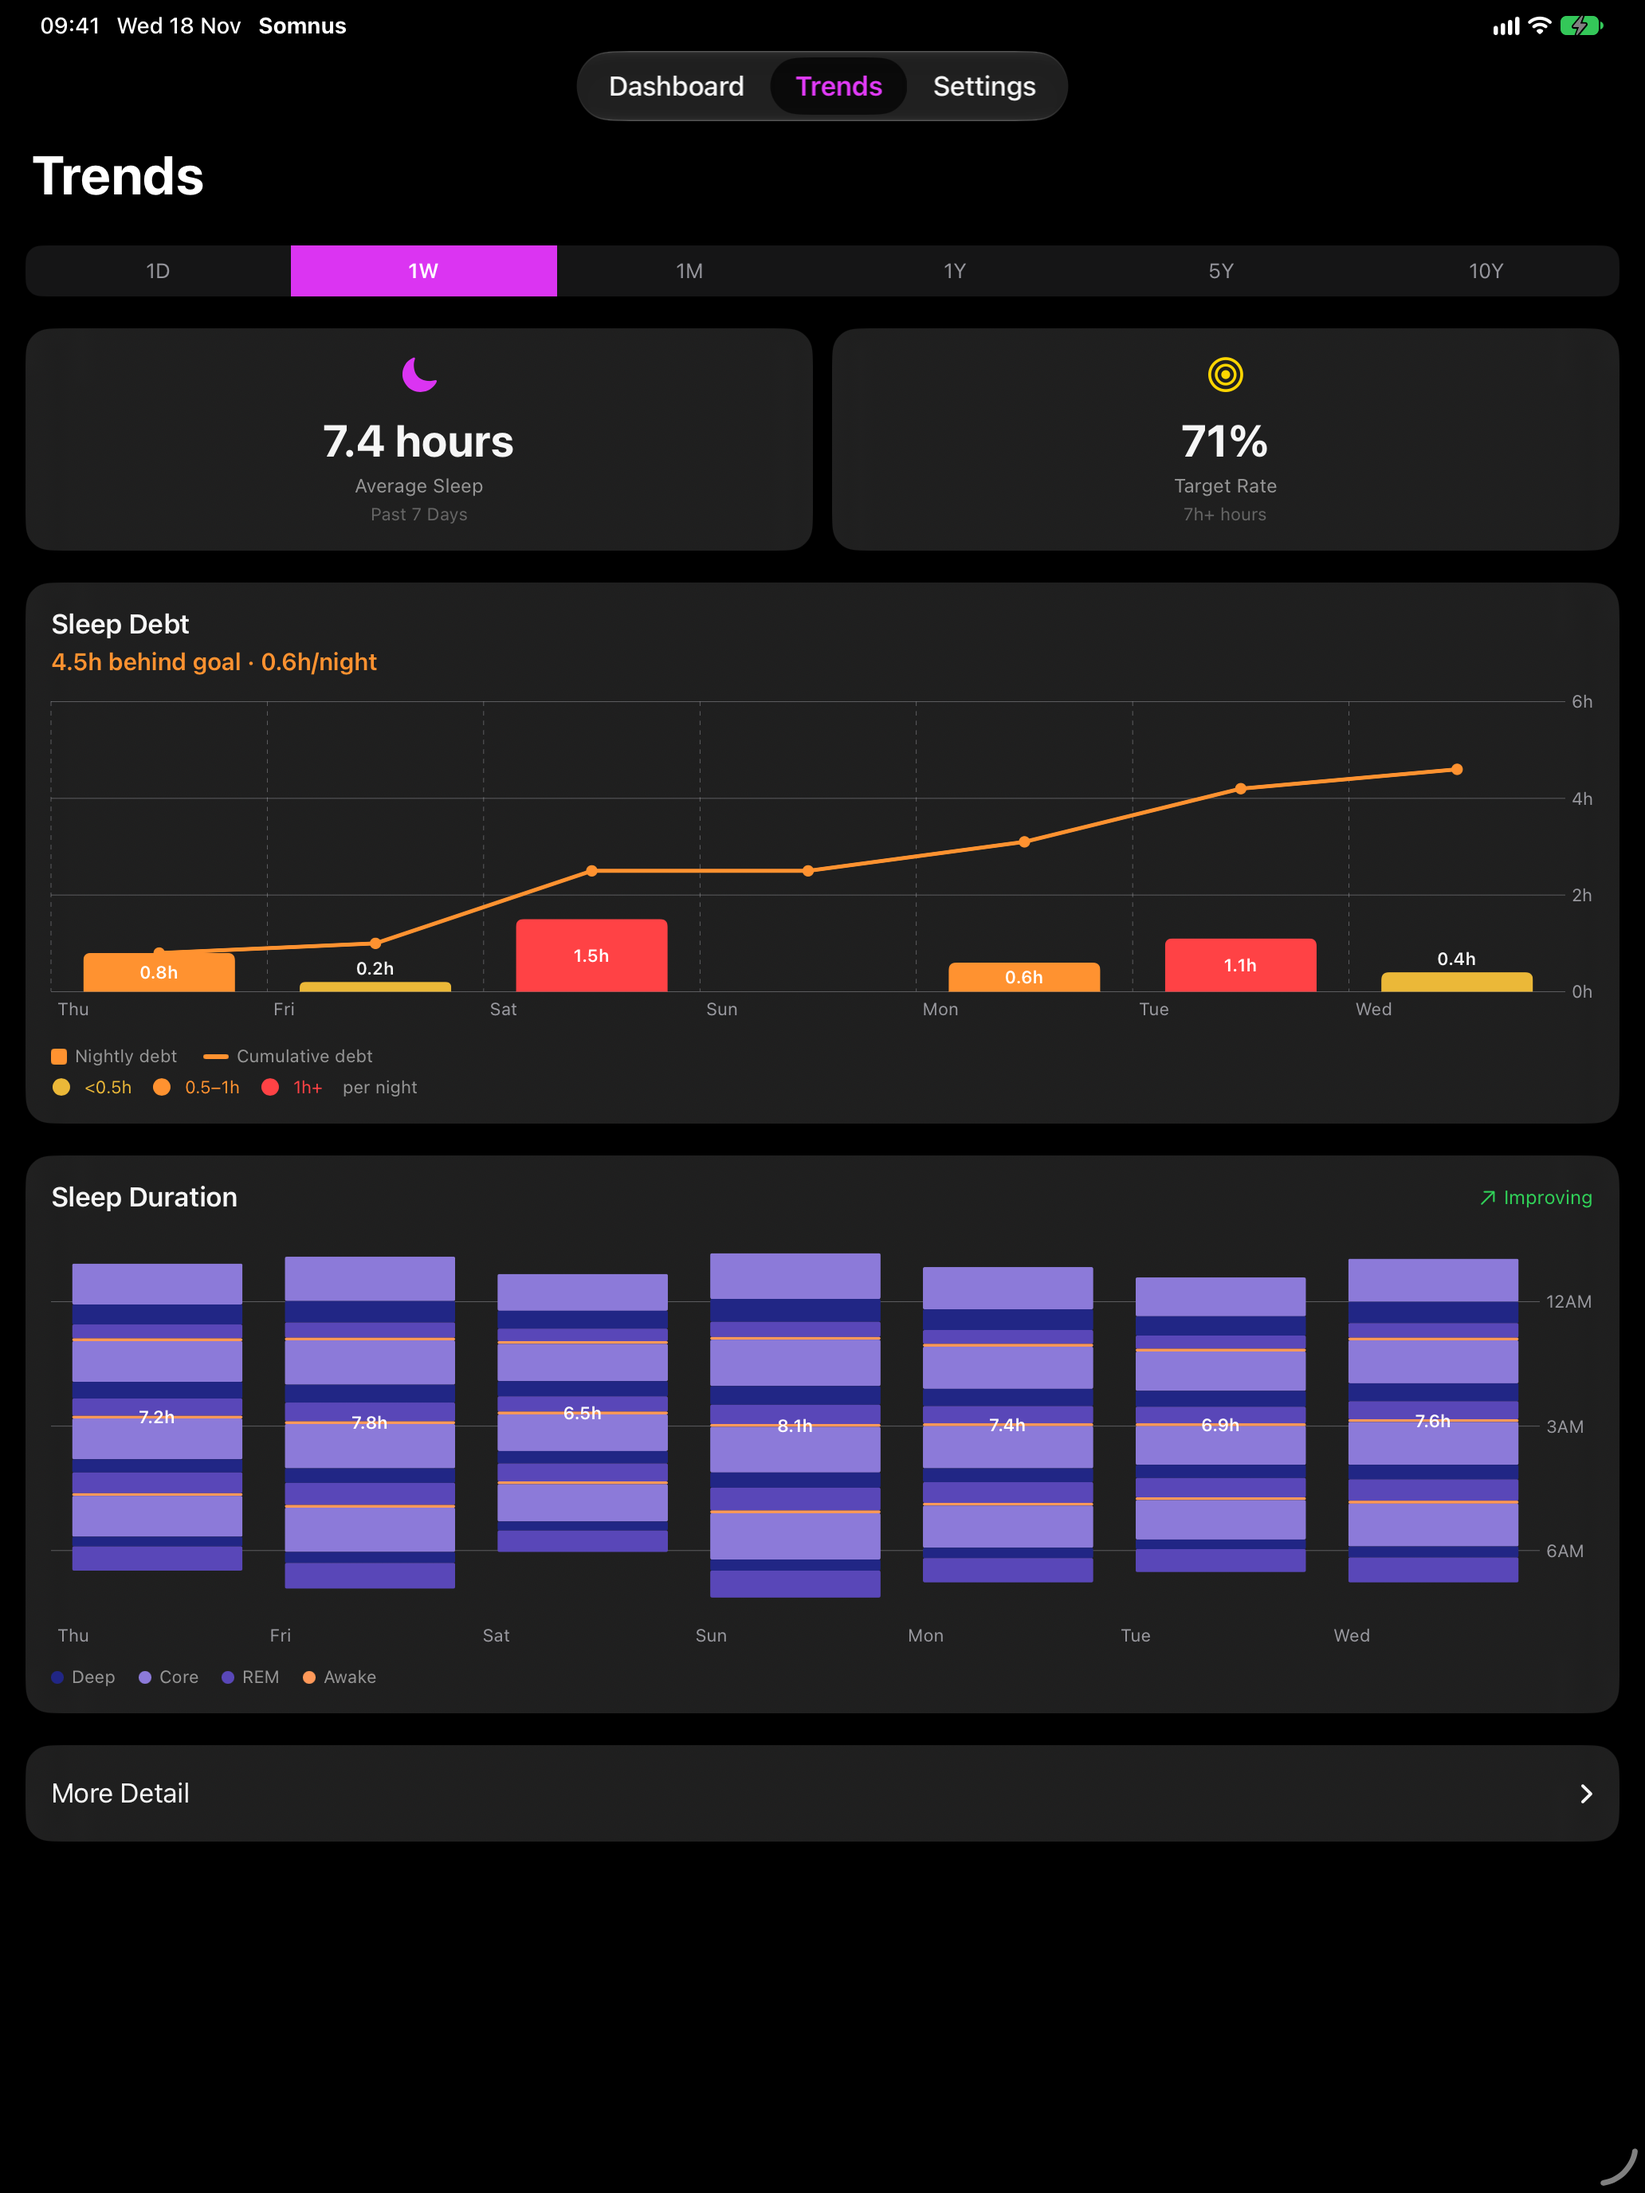
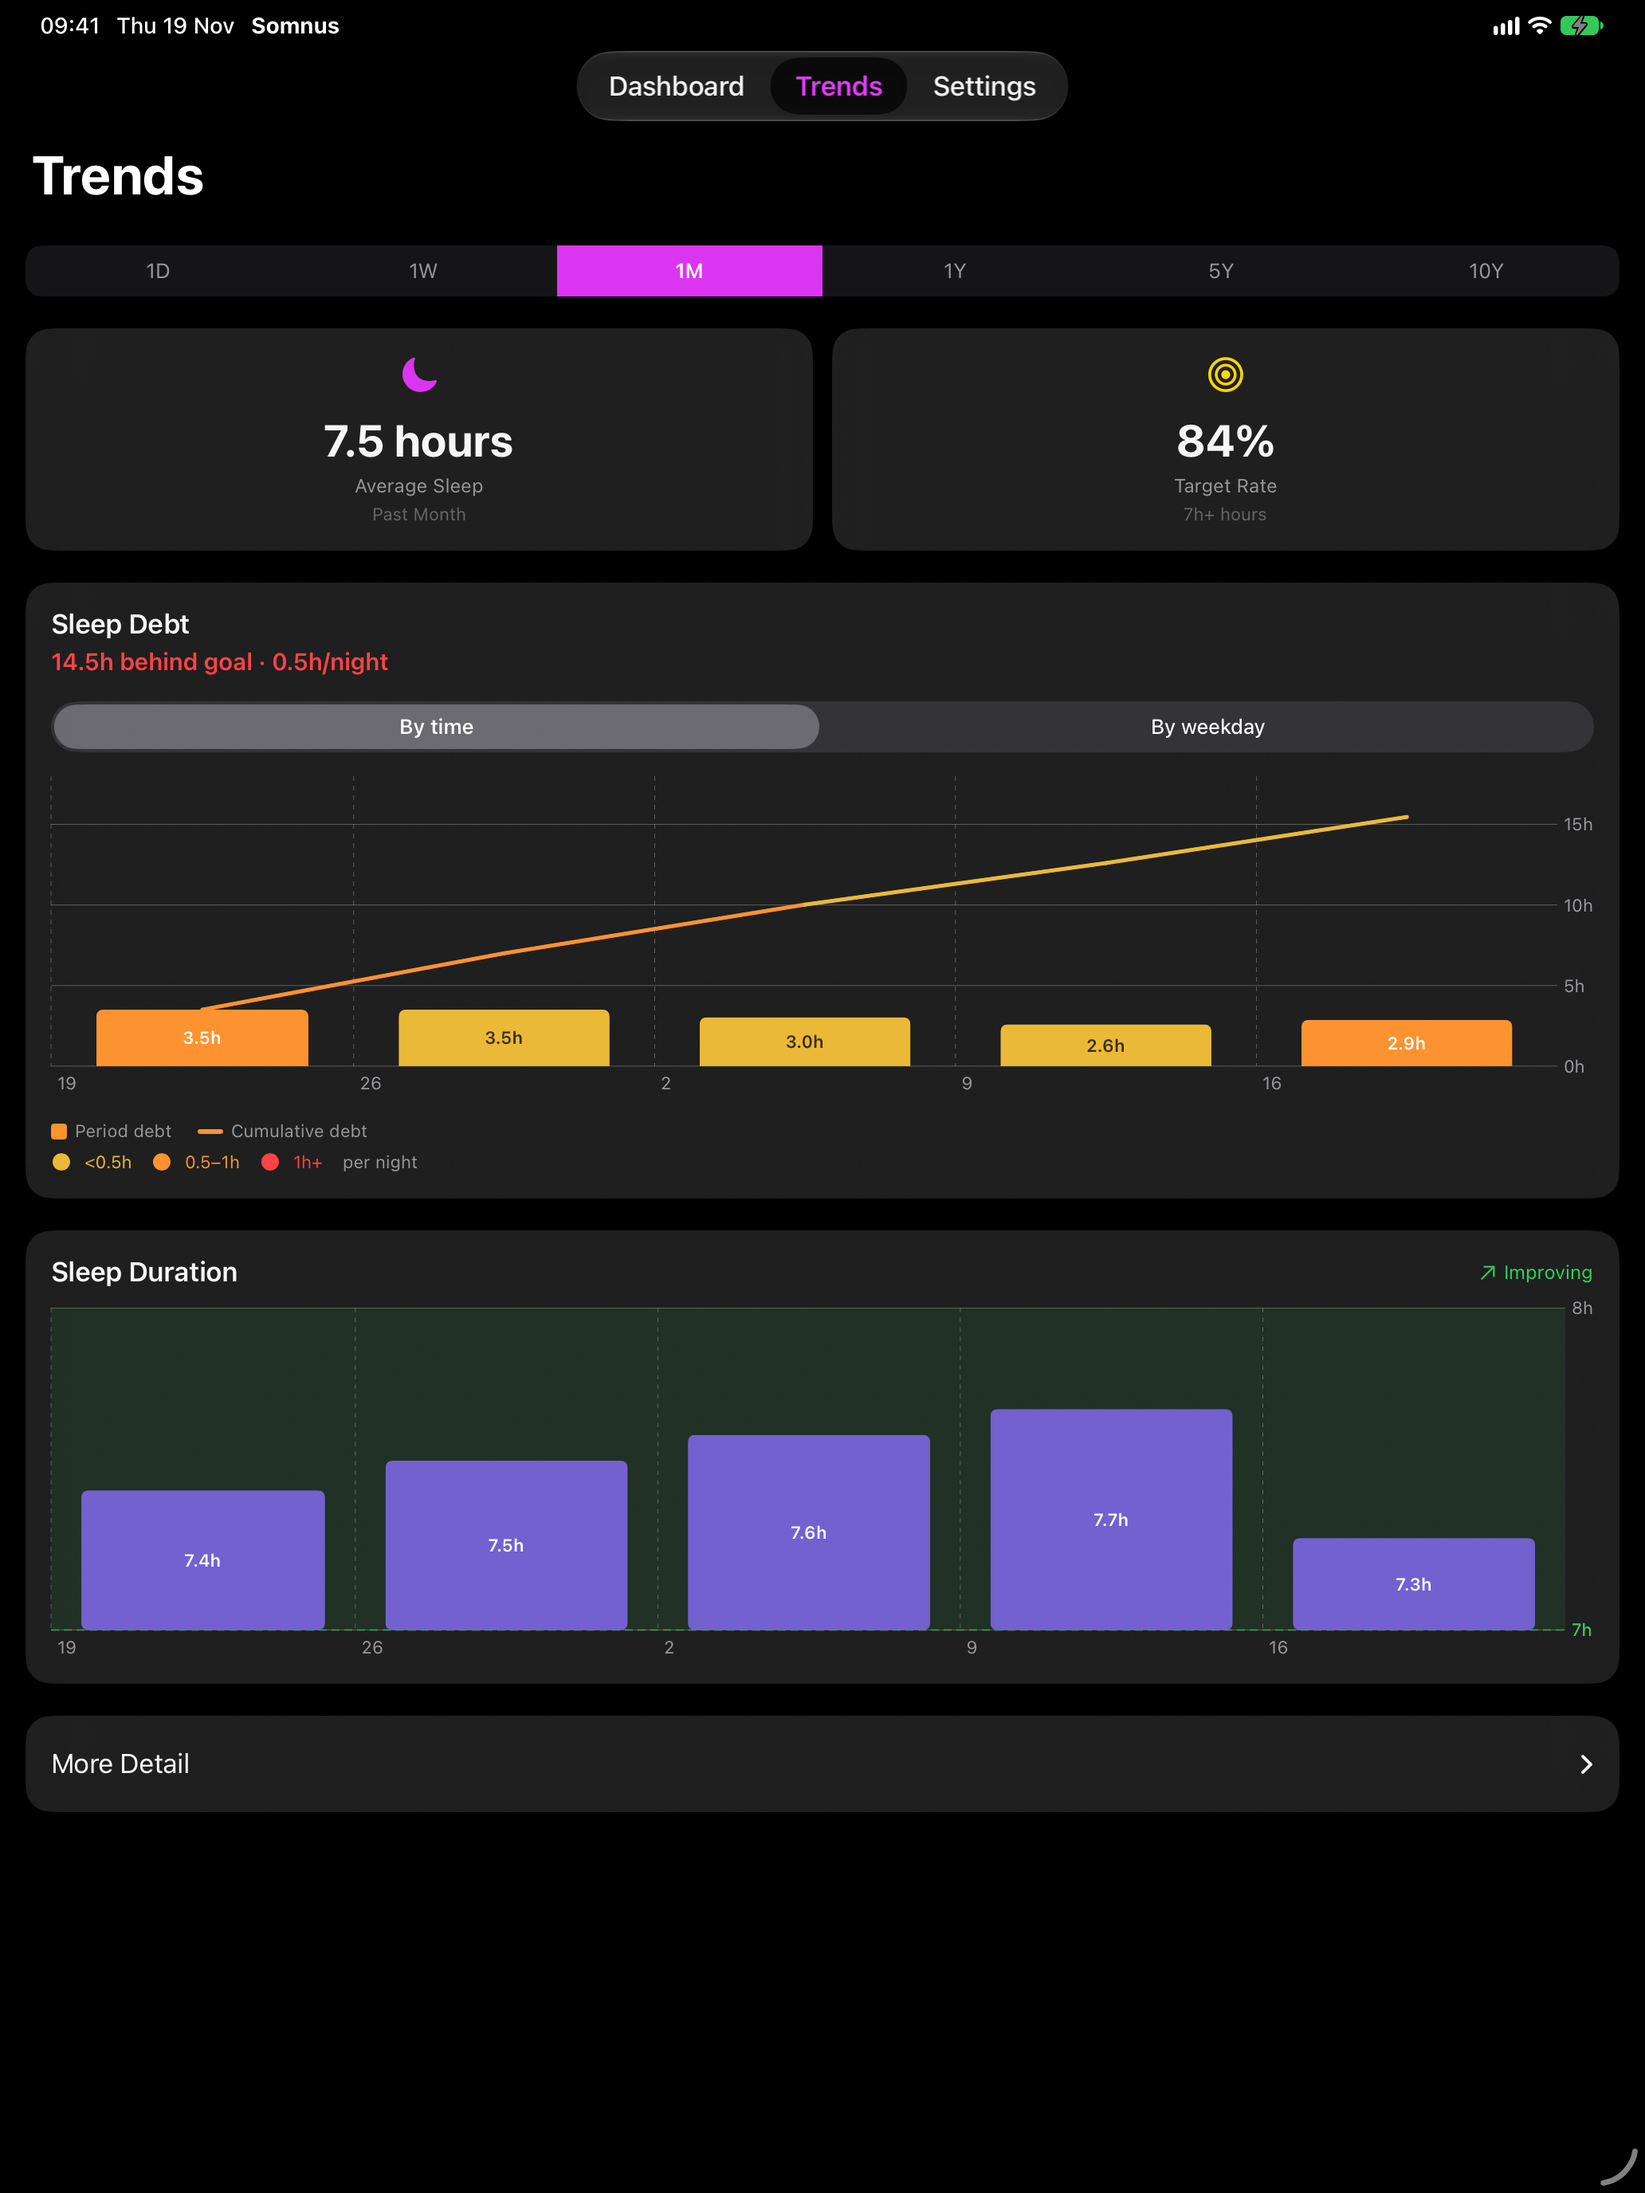
Record 1.2.0 App Store Connect draft and submission
Recapture iPad screenshot 03 as the 1M view: on iPad the whole 1W
Trends page fits on screen, so the duration capture duplicated 02.

diff --git a/docs/app-store-submission-review.md b/docs/app-store-submission-review.md
@@ -152,6 +152,8 @@ xcrun simctl io <udid> screenshot --type=png 05-weekday-year.png
 
 The 1.2.0 iPhone set came from the capture test on the iPhone 18 Pro Max simulator (iOS 27.0). On the iPad Pro 13-inch (M5) simulator the UI-test automation session stalled on relaunch, so the iPad set was captured with `simctl` and flattened. Both sets were captured on 18 November 2026 with the status bar at 09:41.
 
+On iPad the whole 1W Trends page fits on screen, so the `duration` destination produced a byte-identical copy of 02. iPad 03 was therefore recaptured on 19 November 2026 as the **1M By time** view (`-screenshotDestination=monthly-duration`), matching what iPad 03 showed in 1.1.0; its status bar reads Thu 19 Nov because `simctl status_bar` rejected a date override.
+
 ## Build, signing and upload
 
 `project.yml` is the source of truth for **1.2.0 / 5**; `Info.plist` reads `MARKETING_VERSION` and `CURRENT_PROJECT_VERSION`. Generated Xcode projects are ignored. Retain development team `FXNHMJHQFS`, the bundle ID and entitlements.
@@ -187,5 +189,5 @@ The draft is left for the owner to submit:
 | Website demo | `node --test website/tests/demo-data.test.cjs` 6/6 passed; Playwright browser suite (Chromium) passed |
 | Screenshots | All ten retaken 18 November 2026 (iPhone 18 Pro Max and iPad Pro 13-inch (M5) simulators, iOS 27.0); 1320 × 2868 and 2064 × 2752, no alpha. Website assets regenerated from the iPhone captures |
 | Archive / export / upload | **Uploaded 19 November 2026, 08:57 UTC** by the owner from Xcode Organizer (archive `Somnus 19-11-2026, 08.52`, source `bc091b2`). Archive: 1.2.0 / 5, `com.ehsanrahman.somnus`, iPhone + iPad, iOS 17.0, arm64, dSYM, privacy manifest (no tracking/collection, `CA92.1`), both Health purpose strings, `ITSAppUsesNonExemptEncryption = false`, 0 screenshot-fixture strings. Distribution re-sign: Apple Distribution (FXNHMJHQFS), entitlements = HealthKit, `beta-reports-active`, `get-task-allow = 0`, no background delivery. Apple validation passed (08:53) and `UPLOAD SUCCEEDED with no errors`, delivery `eb3eef6c-3275-4b32-b035-9bc655dd2197`. The agent's own archive attempts failed at CodeSign (`errSecInternalComponent`) because it ran in a background launchd session without keychain access |
-| App Store Connect 1.2.0 draft | **Pending** — Claude in Chrome was not connected to the agent session; fill from this document |
-| Submission / release state | Not submitted — owner will submit |
+| App Store Connect 1.2.0 draft | **Saved 19 November 2026** via Claude in Chrome: version 1.2.0 created; What's New, Description, Promotional Text and Review Notes replaced with the copy above; keywords, URLs, copyright and review contact retained; build **1.2.0 (5)** selected with no export-compliance prompt; release option **Manually release this version**; iPhone large display (6.9") and iPad 13" slots each replaced with the five 1.2.0 screenshots in order 01–05. Not added for review |
+| Submission / release state | **Submitted for review by the owner on 19 November 2026**; manual release, so the owner releases after approval |
